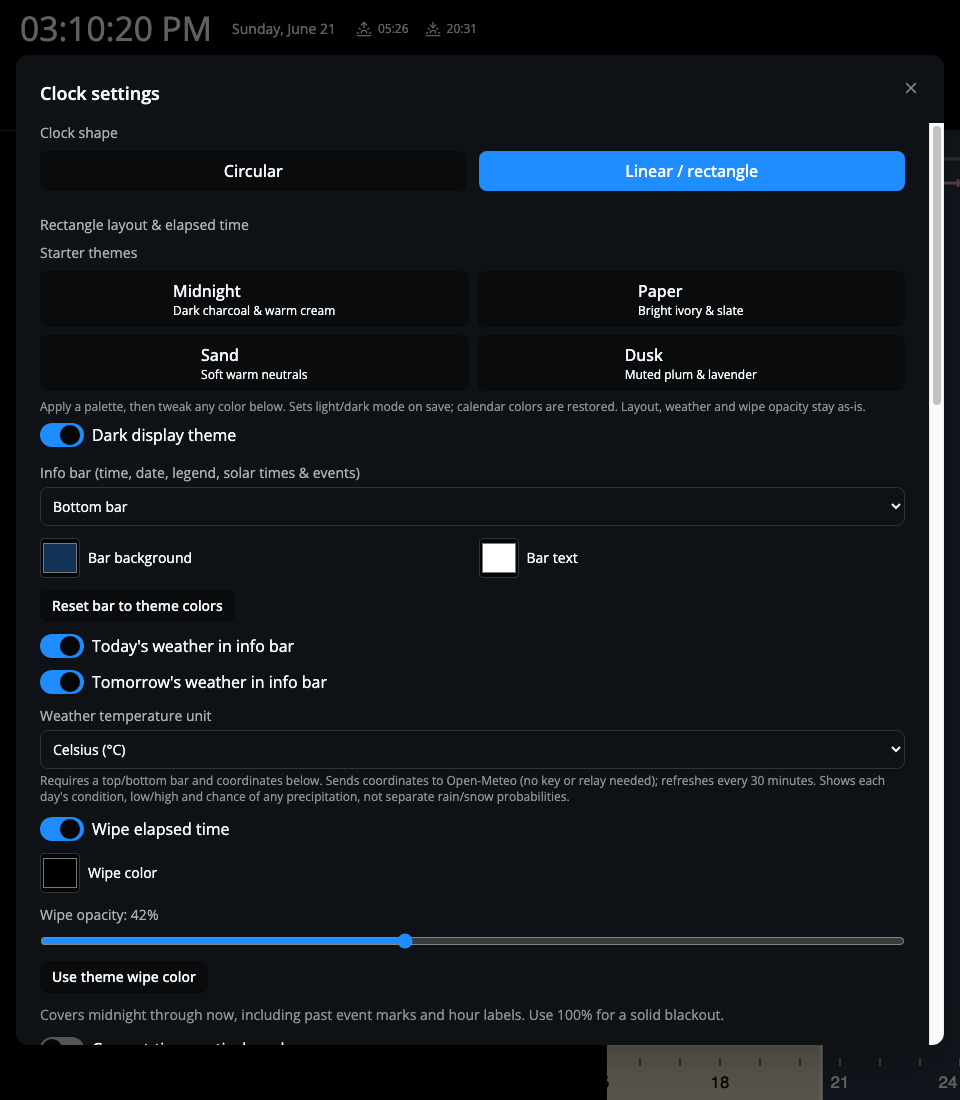
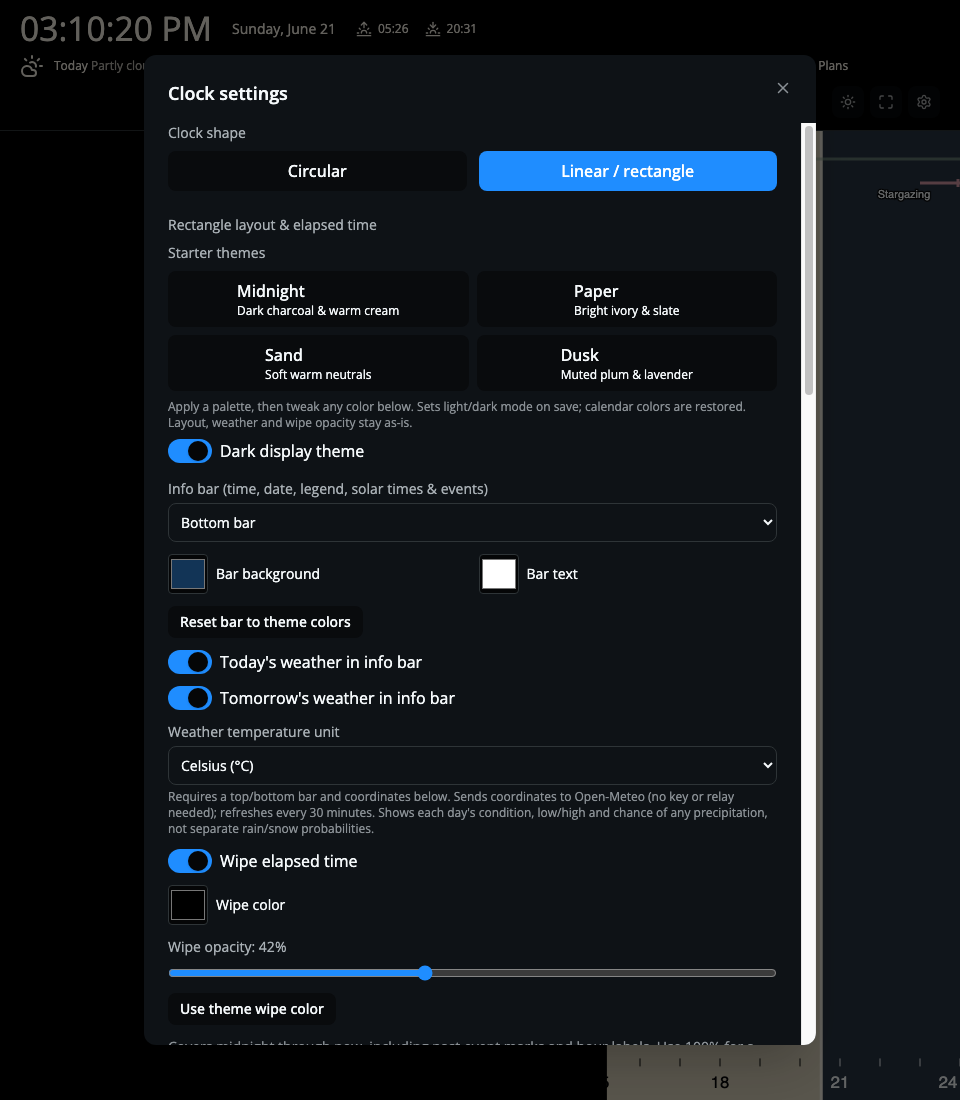
Fix clock settings jumping when weather options expand
Use a stable responsive modal width, allow fieldsets to shrink, and disable form scroll anchoring. Add desktop/mobile weather-toggle layout regression checks and refresh settings screenshots.

diff --git a/clock/src/components/Settings.tsx b/clock/src/components/Settings.tsx
@@ -150,9 +150,9 @@ export default function Settings({
   };
 
   return (
-    <Modal open onClose={onClose} title="Clock settings" fit>
+    <Modal open onClose={onClose} title="Clock settings" wide>
       <form
-        className="space-y-6"
+        className="clock-settings-form min-w-0 space-y-6"
         onSubmit={(event) => {
           event.preventDefault();
           const draft = draftSettings();

diff --git a/clock/src/index.css b/clock/src/index.css
@@ -167,6 +167,14 @@ body {
   pointer-events: none;
 }
 
+.clock-settings-form {
+  overflow-anchor: none;
+}
+
+.clock-settings-form fieldset {
+  min-width: 0;
+}
+
 .clock-info {
   display: contents;
 }

diff --git a/clock/screenshots/README.md b/clock/screenshots/README.md
@@ -111,4 +111,4 @@ pnpm --filter clock screenshots
 
 On macOS the browser binary may be `/Applications/Google Chrome.app/Contents/MacOS/Google Chrome`. Optional environment variables `CLOCK_CDP_URL` and `CLOCK_PREVIEW_URL` select alternate debug/preview endpoints. Use a throwaway browser profile and keep remote debugging bound to localhost.
 
-The capture checks calendar retrieval/legend, URL-driven theme, hidden controls, optional agenda, today/tomorrow weather, wipe pixel alpha/bounds, all-calendars-off behavior, and uncaught browser exceptions. It also opens the actual settings form, changes the bar/unit/opacity without saving, clicks **Copy display URL**, and verifies every setting in the generated link. Every preset is also clicked, copied, checked for seven explicit color values and its light/dark mode, and loaded for a dedicated screenshot. It does not test the Orange Pi's hardware renderer or a real Google account.
+The capture checks calendar retrieval/legend, URL-driven theme, hidden controls, optional agenda, today/tomorrow weather, wipe pixel alpha/bounds, all-calendars-off behavior, and uncaught browser exceptions. It also opens the actual settings form, changes the bar/unit/opacity without saving, clicks **Copy display URL**, and verifies every setting in the generated link. Every preset is also clicked, copied, checked for seven explicit color values and its light/dark mode, and loaded for a dedicated screenshot. Weather toggle regression checks also verify stable dialog position/size and no horizontal overflow at desktop (960px) and phone (390px) widths. It does not test the Orange Pi's hardware renderer or a real Google account.
